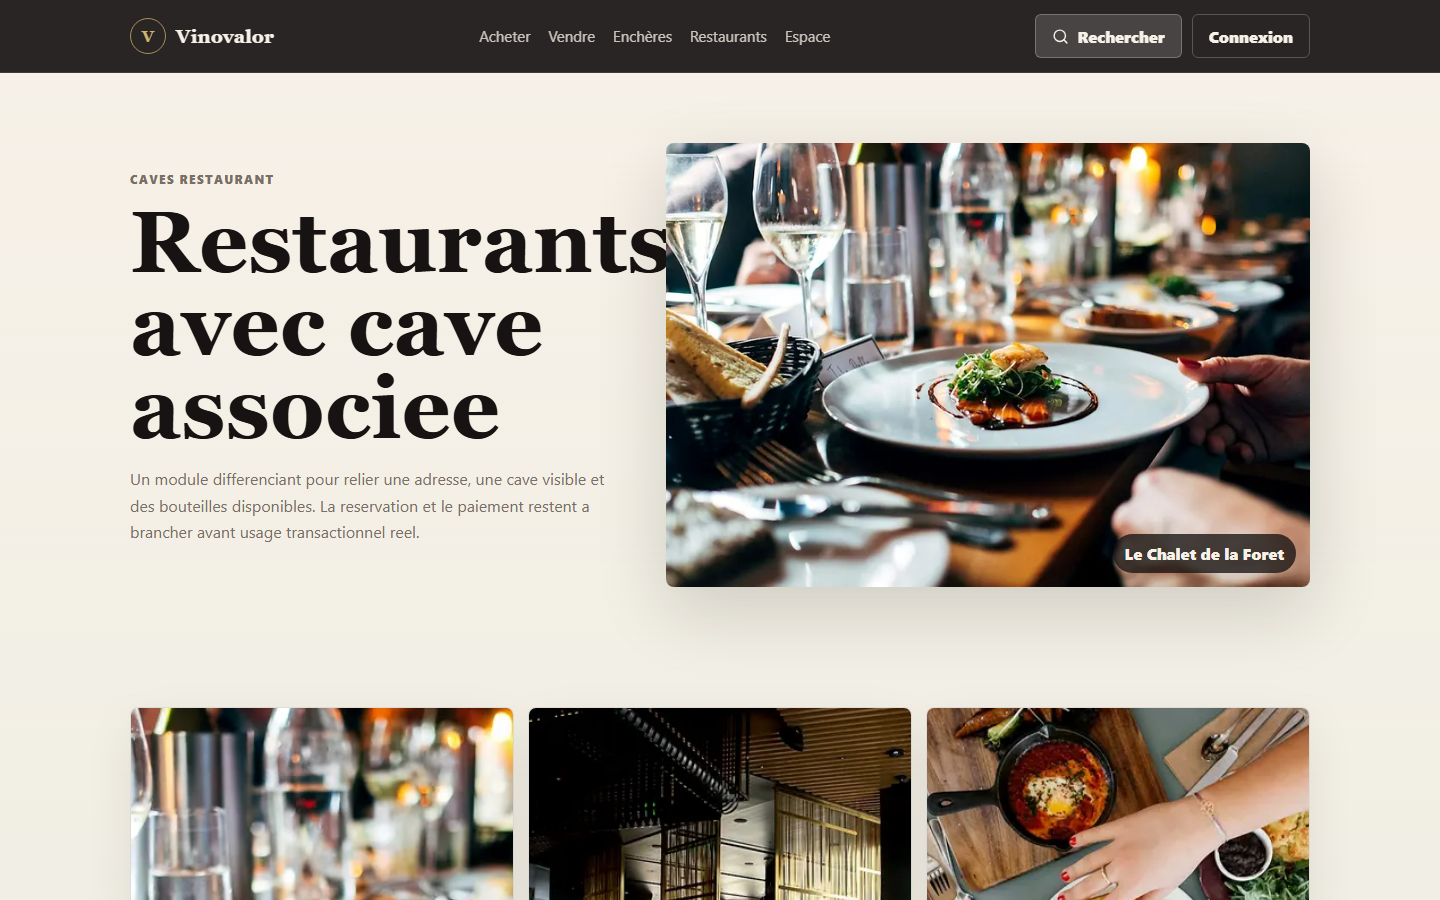
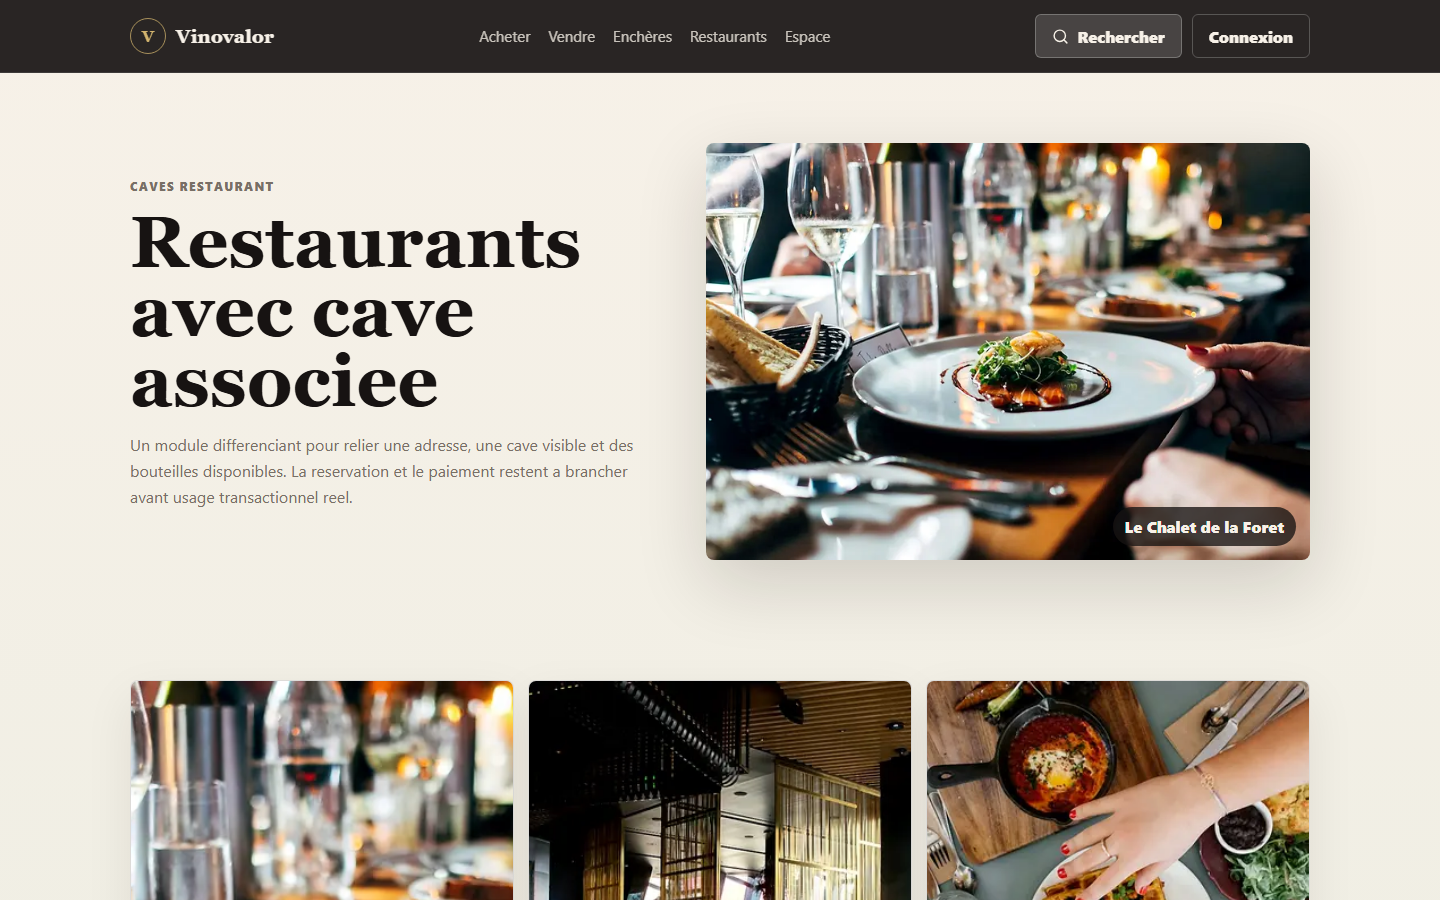
Fix restaurant hero overlap

diff --git a/src/app/globals.css b/src/app/globals.css
@@ -1024,16 +1024,20 @@ img {
 
 .restaurant-hero {
   display: grid;
-  grid-template-columns: minmax(0, 0.78fr) minmax(420px, 1fr);
-  gap: 34px;
+  grid-template-columns: minmax(0, 520px) minmax(0, 1fr);
+  gap: clamp(32px, 4vw, 56px);
   align-items: center;
+}
+
+.restaurant-hero__copy {
+  min-width: 0;
 }
 
 .restaurant-hero h1,
 .auction-hero h1 {
   margin: 0;
   font-family: Georgia, "Times New Roman", serif;
-  font-size: clamp(3rem, 6vw, 6.4rem);
+  font-size: clamp(3rem, 5vw, 5.2rem);
   line-height: 0.96;
 }
 